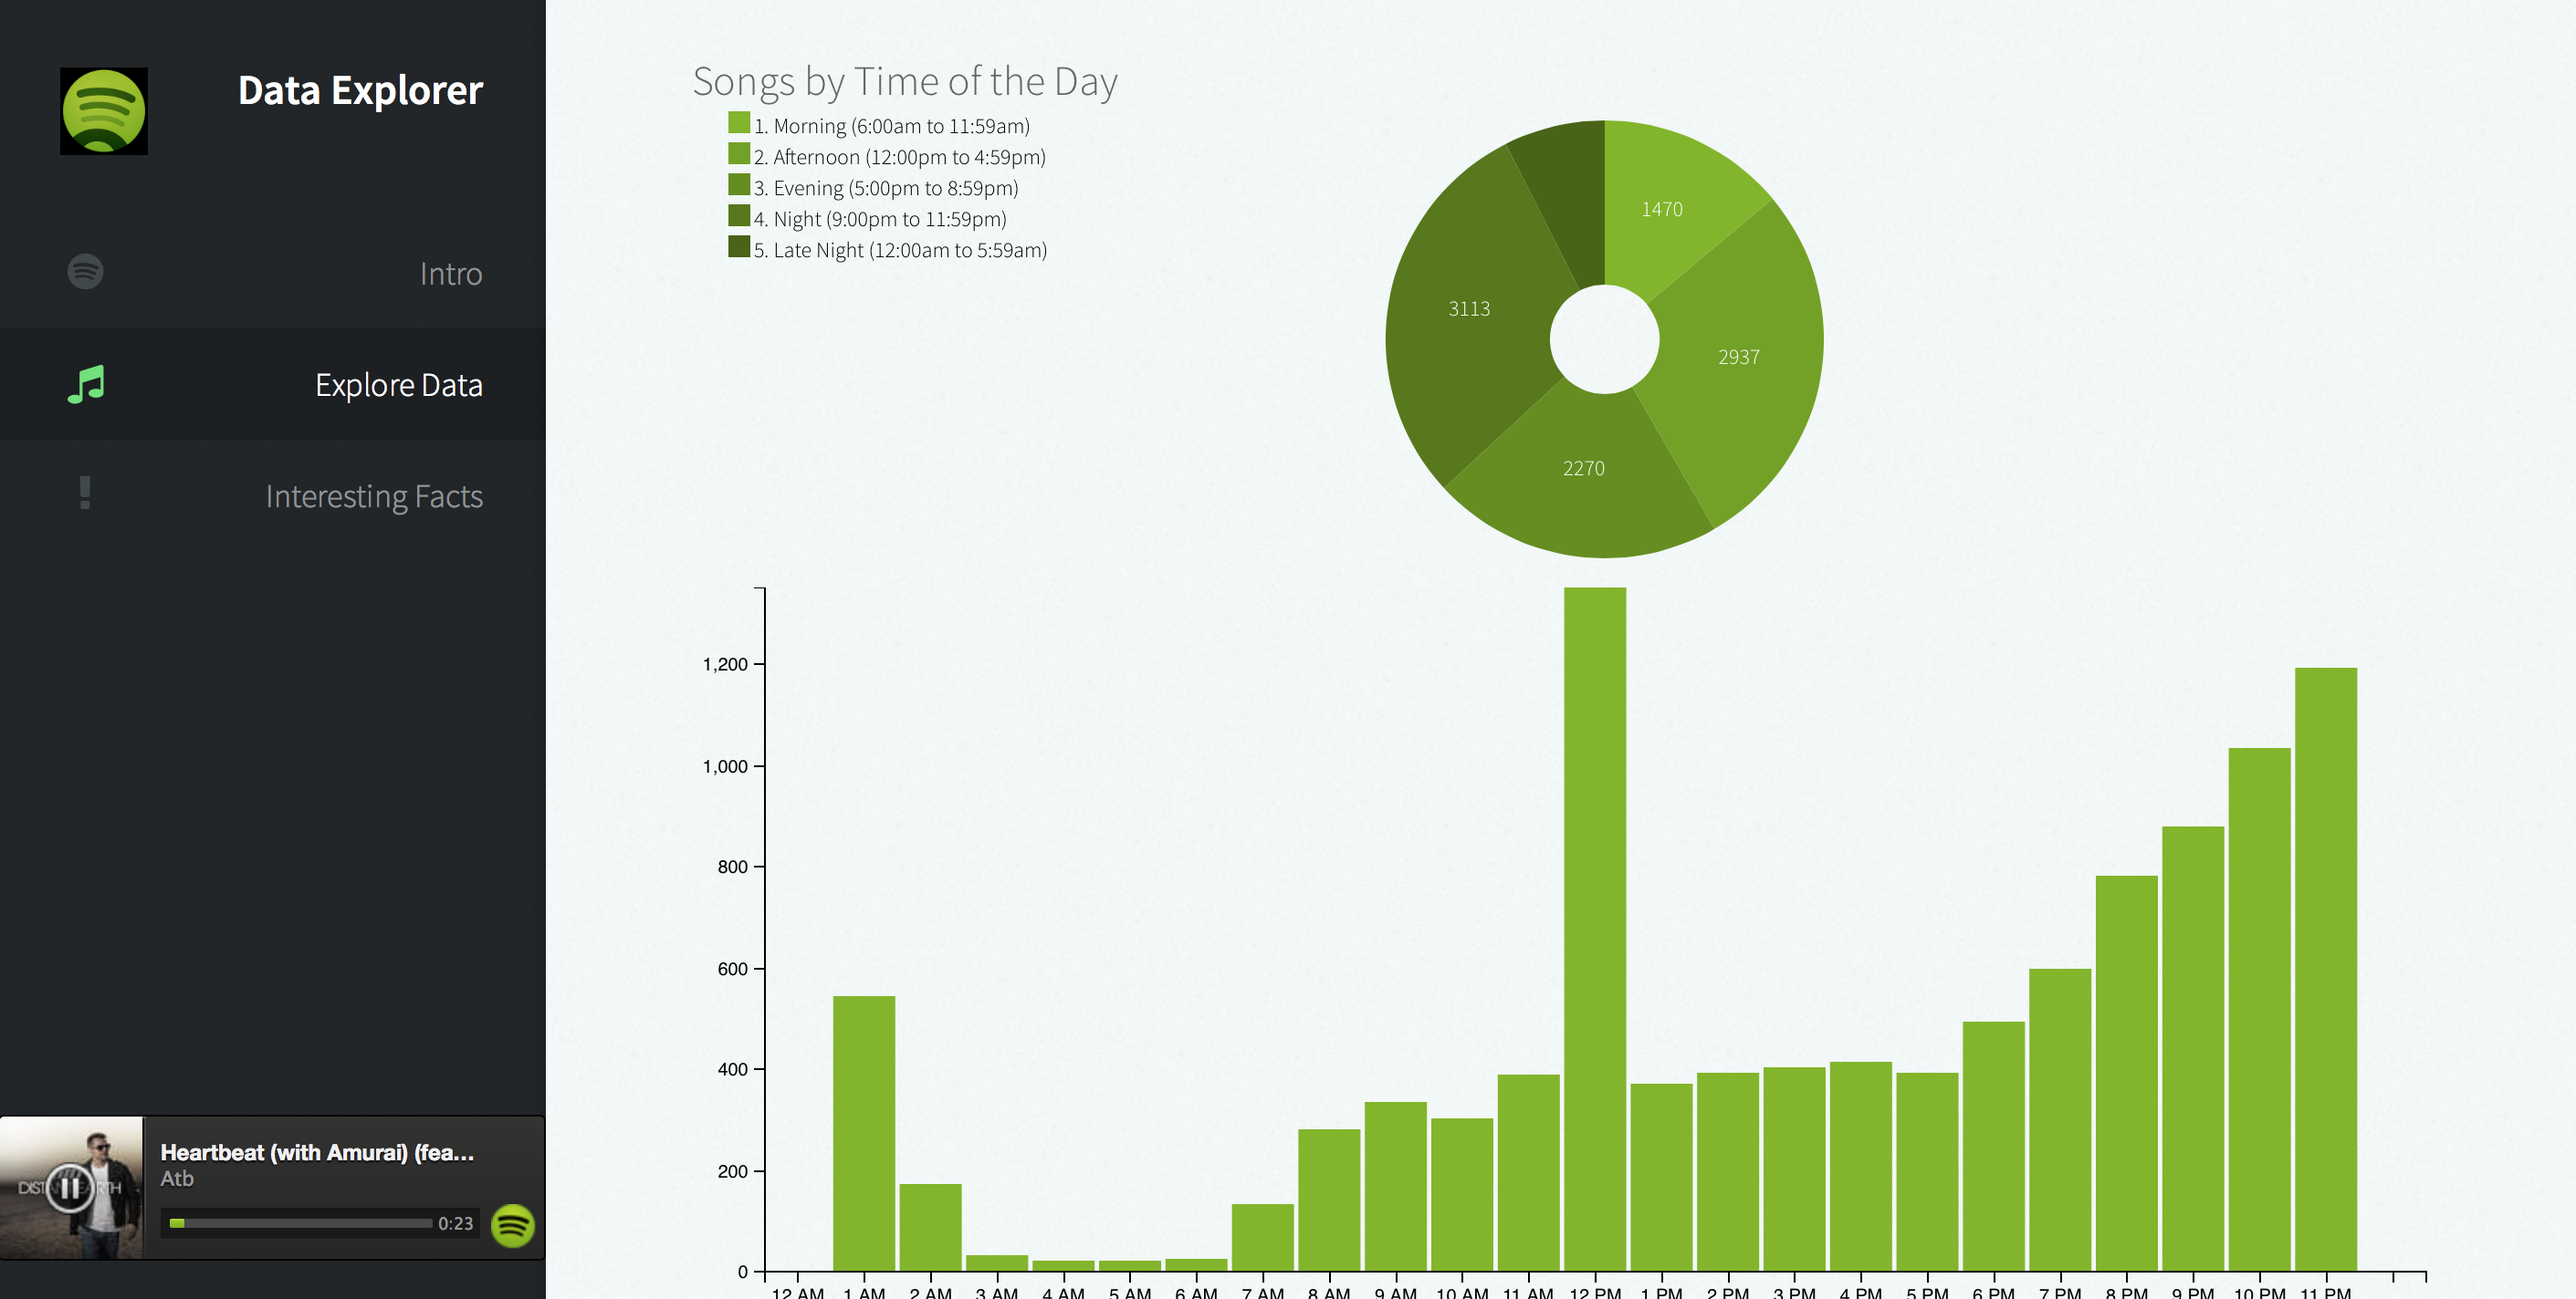
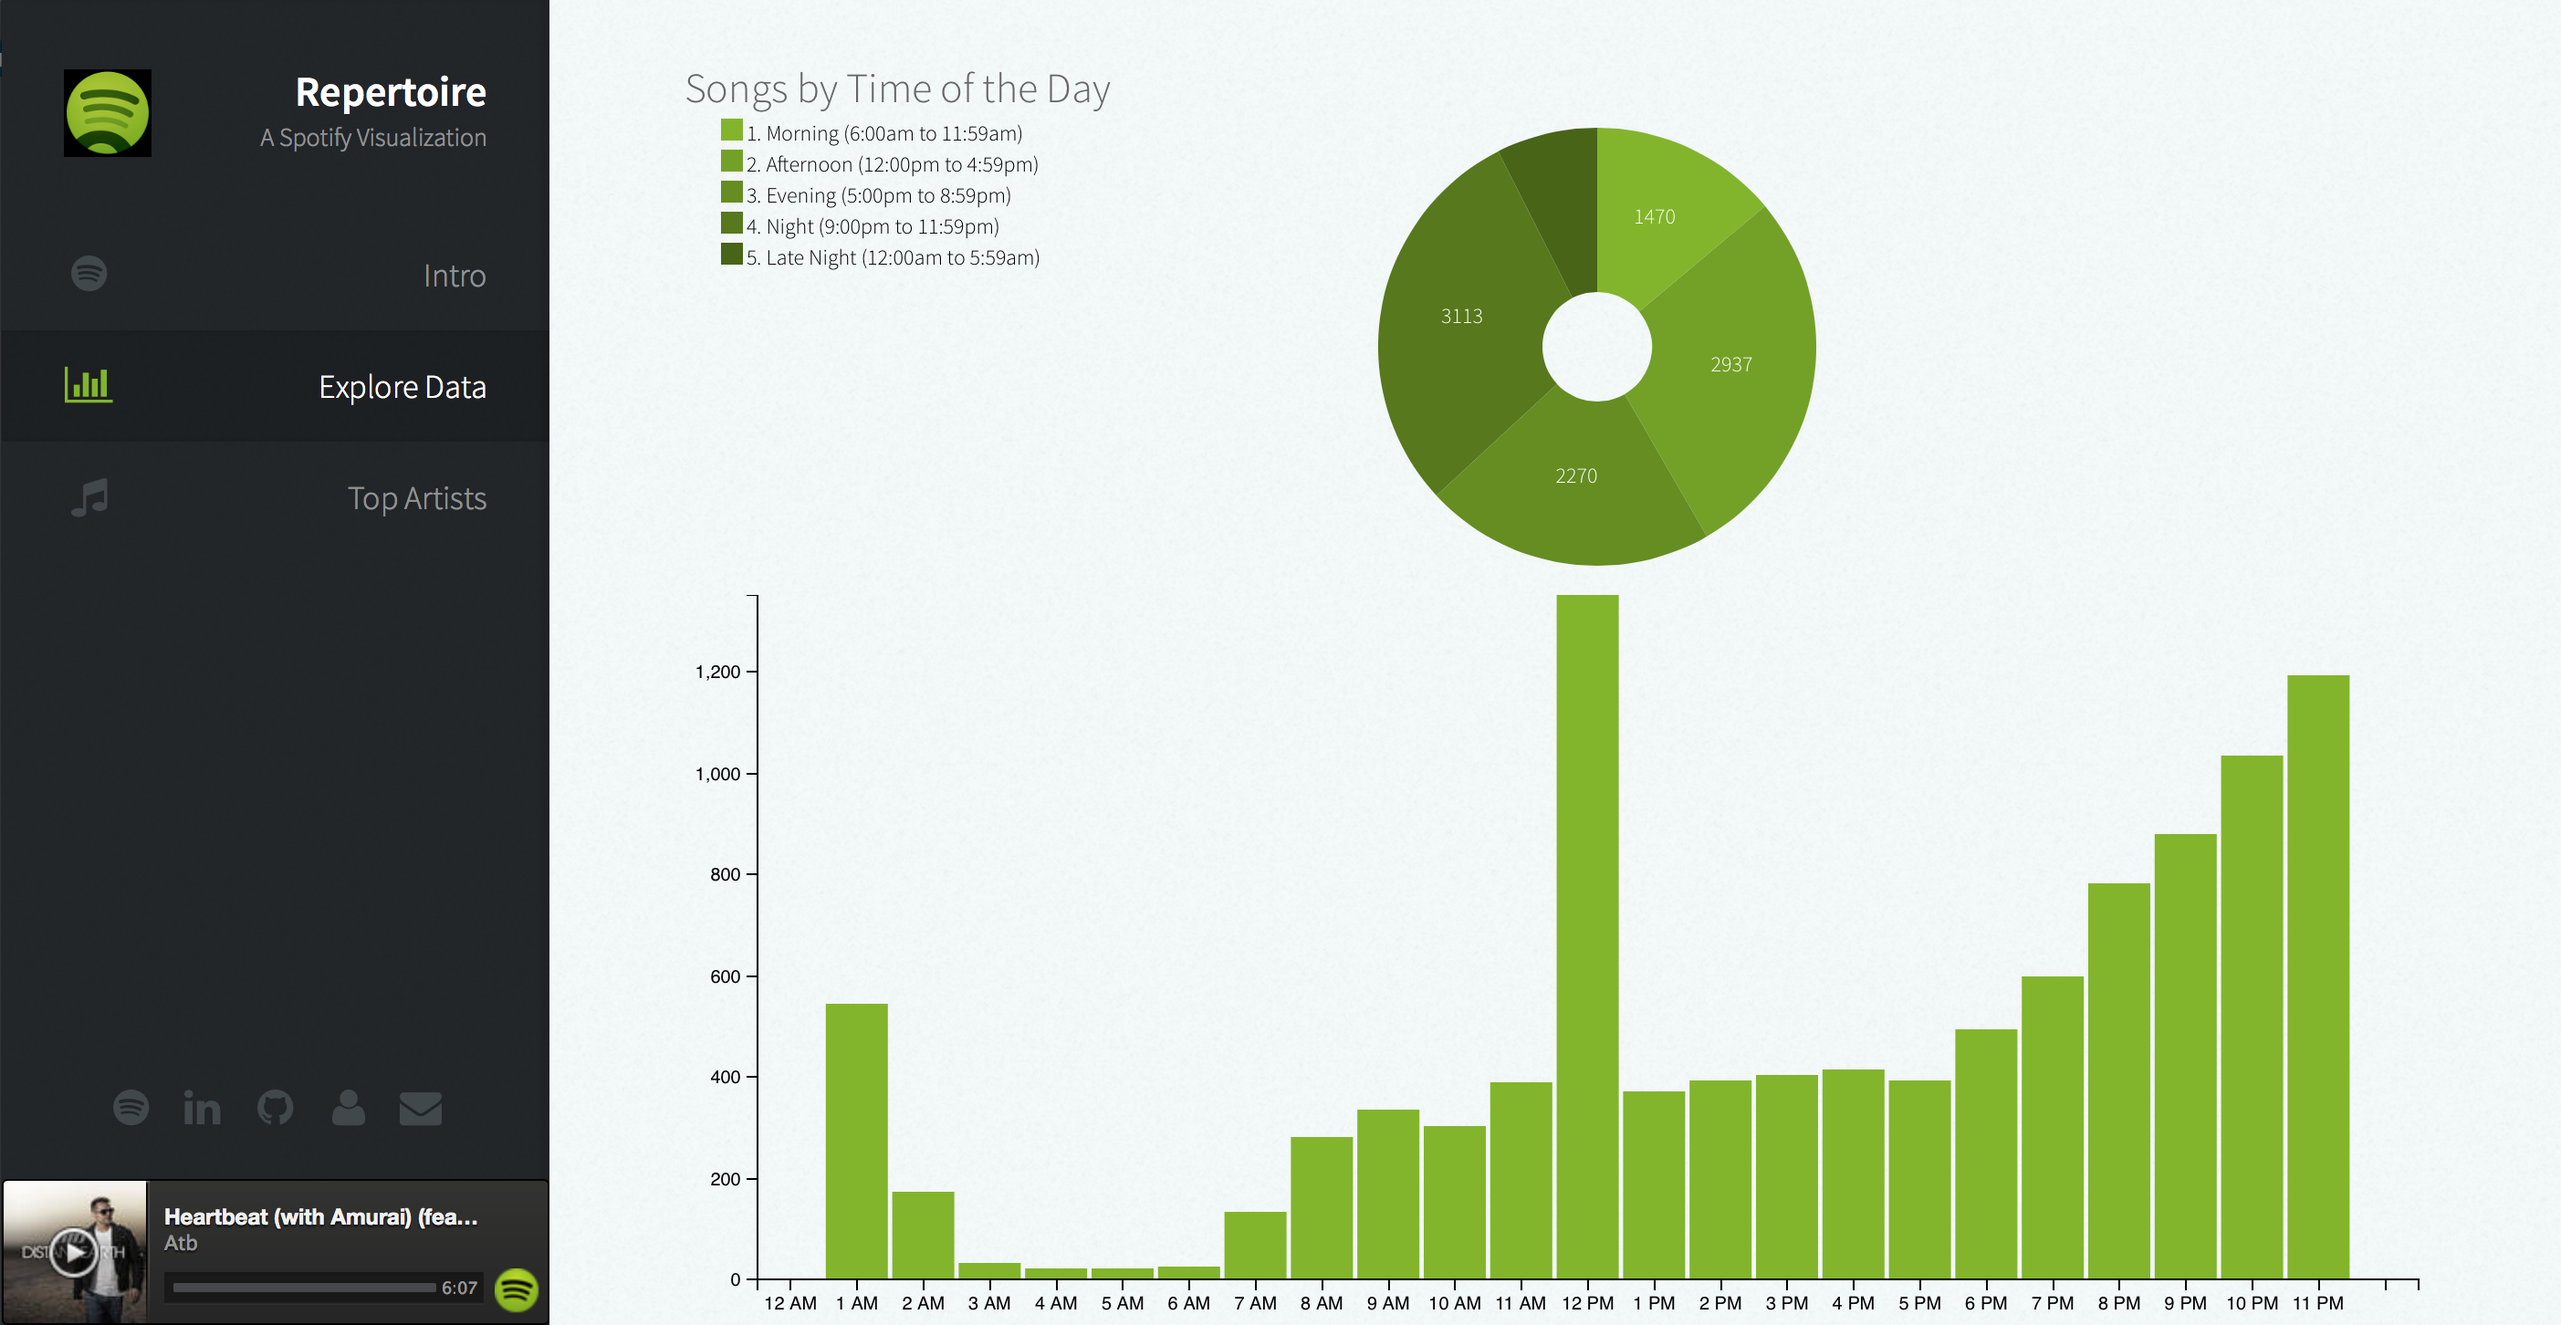
Website Update

diff --git a/index.html b/index.html
@@ -67,7 +67,7 @@
 						<!-- Spotify -->
 							<article id="Spotify" class="panel">
 								<header>
-									<h2>Spotify Data Explorer</h2>
+									<h2>Repertoire: A Spotify Visualization </h2>
 								</header>
                                 <img class="img img-responsive" src="images/Spotify.png" alt=""/>
                                 <h3>Summary:</h3>
